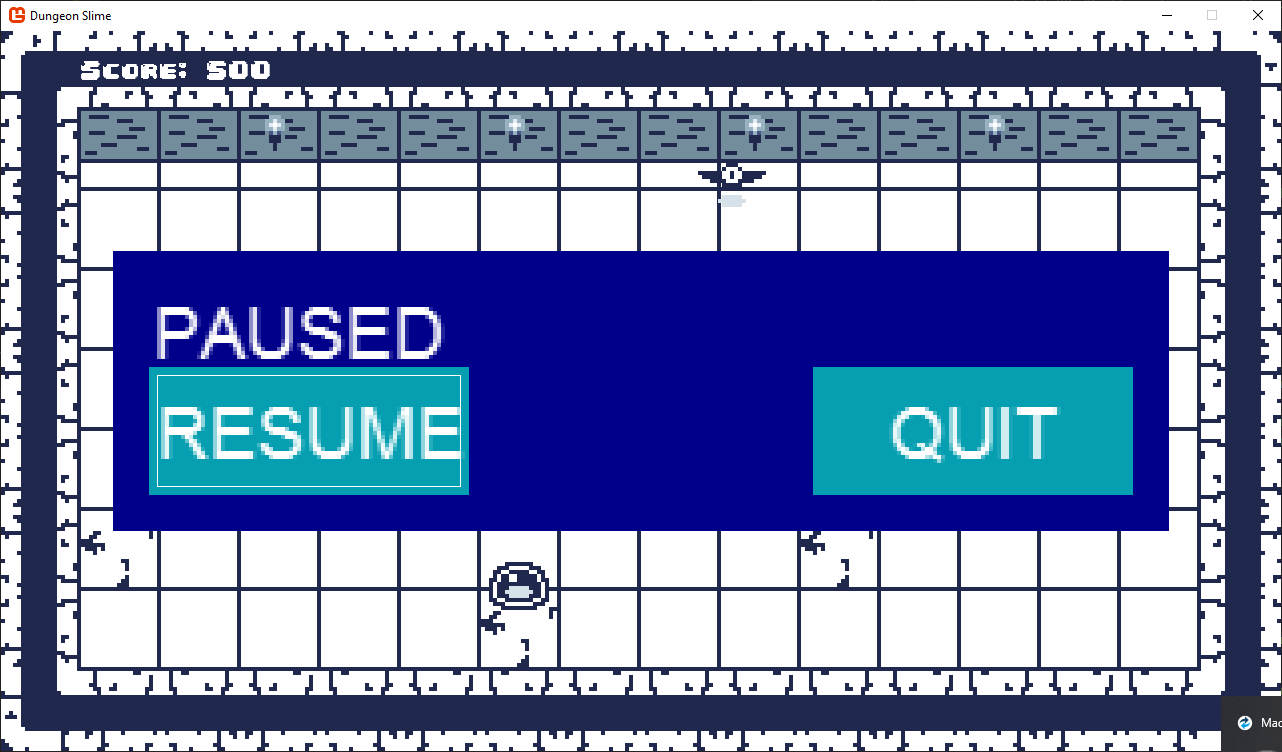
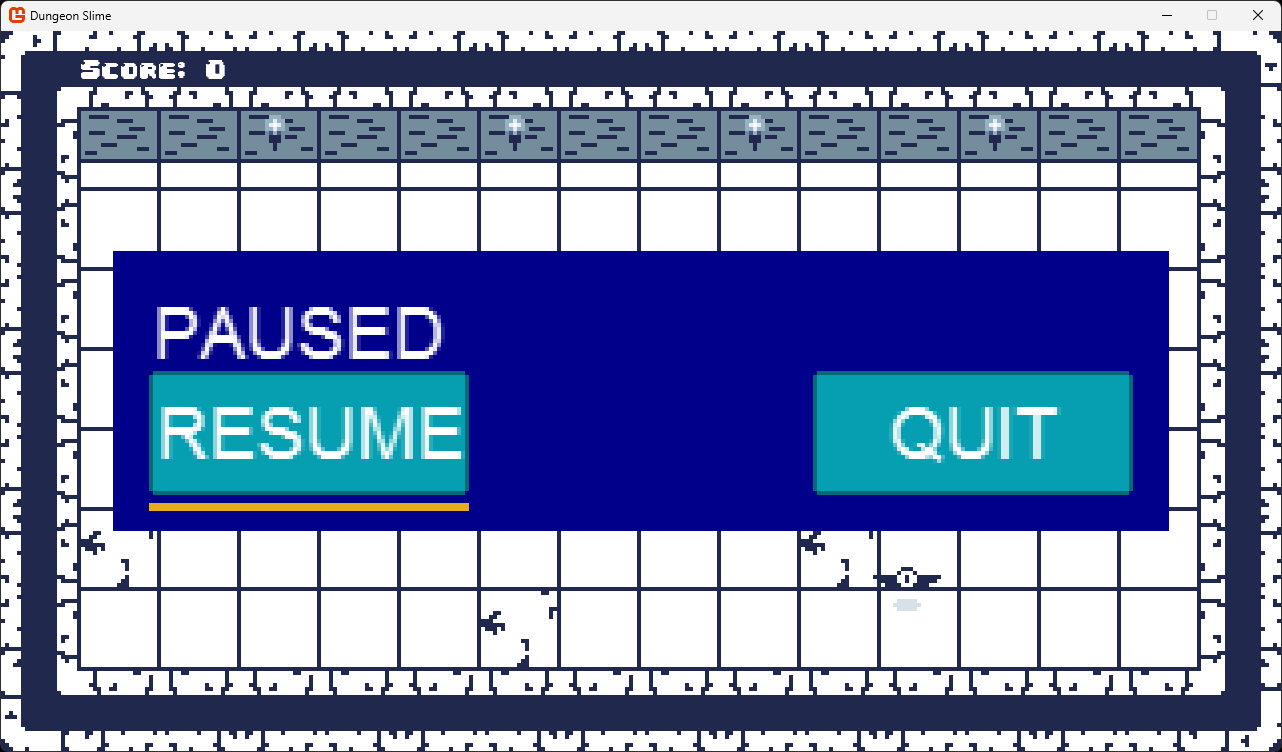
Gum styling update 2025 8 (#164)
* Updated styling docs to use ButtonVisual

Updated using statements to match new gum namespace

* Fixed usings

* Upped NuGet versions for MonoGame Docs

* Oops forgot this using statement.

* Upped version number

* Addressed feedback from AristurtleDev

diff --git a/articles/tutorials/building_2d_games/21_customizing_gum_ui/snippets/animatedbutton.cs b/articles/tutorials/building_2d_games/21_customizing_gum_ui/snippets/animatedbutton.cs
@@ -1,10 +1,11 @@
 using System;
 using Gum.DataTypes;
 using Gum.DataTypes.Variables;
+using Gum.Forms.Controls;
+using Gum.Forms.DefaultVisuals;
 using Gum.Graphics.Animation;
 using Gum.Managers;
 using Microsoft.Xna.Framework.Input;
-using MonoGameGum.Forms.Controls;
 using MonoGameGum.GueDeriving;
 using MonoGameLibrary.Graphics;
 
@@ -22,27 +23,26 @@ internal class AnimatedButton : Button
     /// <param name="atlas">The texture atlas containing button graphics and animations</param>
     public AnimatedButton(TextureAtlas atlas)
     {
-        // Create the top-level container that will hold all visual elements
+        // Each Forms conrol has a general Visual property that
+        // has properties shared by all control types. This Visual
+        // type matches the Forms type. It can be casted to access
+        // controls-specific properties.
+        ButtonVisual buttonVisual = (ButtonVisual)Visual;
         // Width is relative to children with extra padding, height is fixed
-        ContainerRuntime topLevelContainer = new ContainerRuntime();
-        topLevelContainer.Height = 14f;
-        topLevelContainer.HeightUnits = DimensionUnitType.Absolute;
-        topLevelContainer.Width = 21f;
-        topLevelContainer.WidthUnits = DimensionUnitType.RelativeToChildren;
+        buttonVisual.Height = 14f;
+        buttonVisual.HeightUnits = DimensionUnitType.Absolute;
+        buttonVisual.Width = 21f;
+        buttonVisual.WidthUnits = DimensionUnitType.RelativeToChildren;
 
-        // Create the nine-slice background that will display the button graphics
+        // Get a reference to the nine-slice background to display the button graphics
         // A nine-slice allows the button to stretch while preserving corner appearance
-        NineSliceRuntime nineSliceInstance = new NineSliceRuntime();
-        nineSliceInstance.Height = 0f;
-        nineSliceInstance.Texture = atlas.Texture;
-        nineSliceInstance.TextureAddress = TextureAddress.Custom;
-        nineSliceInstance.Dock(Gum.Wireframe.Dock.Fill);
-        topLevelContainer.Children.Add(nineSliceInstance);
+        NineSliceRuntime background = buttonVisual.Background;
+        background.Texture = atlas.Texture;
+        background.TextureAddress = TextureAddress.Custom;
+        background.Color = Microsoft.Xna.Framework.Color.White;
+        // texture coordinates for the background are set down below
 
-        // Create the text element that will display the button's label
-        TextRuntime textInstance = new TextRuntime();
-        // Name is required so it hooks in to the base Button.Text property
-        textInstance.Name = "TextInstance";
+        TextRuntime textInstance = buttonVisual.TextInstance;
         textInstance.Text = "START";
         textInstance.Blue = 130;
         textInstance.Green = 86;
@@ -53,7 +53,6 @@ internal class AnimatedButton : Button
         textInstance.Anchor(Gum.Wireframe.Anchor.Center);
         textInstance.Width = 0;
         textInstance.WidthUnits = DimensionUnitType.RelativeToChildren;
-        topLevelContainer.Children.Add(textInstance);
 
         // Get the texture region for the unfocused button state from the atlas
         TextureRegion unfocusedTextureRegion = atlas.GetRegion("unfocused-button");
@@ -94,58 +93,47 @@ internal class AnimatedButton : Button
         }
 
         // Assign both animation chains to the nine-slice background
-        nineSliceInstance.AnimationChains = new AnimationChainList
+        background.AnimationChains = new AnimationChainList
         {
             unfocusedAnimation,
             focusedAnimation
         };
 
-        // Create a state category for button states
-        StateSaveCategory category = new StateSaveCategory();
-        category.Name = Button.ButtonCategoryName;
-        topLevelContainer.AddCategory(category);
 
-        // Create the enabled (default/unfocused) state
-        StateSave enabledState = new StateSave();
-        enabledState.Name = FrameworkElement.EnabledStateName;
+        // Reset all state to default so we don't have unexpected variable assignments:
+        buttonVisual.ButtonCategory.ResetAllStates();
+
+        // Get the enabled (default/unfocused) state
+        StateSave enabledState = buttonVisual.States.Enabled;
         enabledState.Apply = () =>
         {
             // When enabled but not focused, use the unfocused animation
-            nineSliceInstance.CurrentChainName = unfocusedAnimation.Name;
+            background.CurrentChainName = unfocusedAnimation.Name;
         };
-        category.States.Add(enabledState);
 
         // Create the focused state
-        StateSave focusedState = new StateSave();
-        focusedState.Name = FrameworkElement.FocusedStateName;
+        StateSave focusedState = buttonVisual.States.Focused;
         focusedState.Apply = () =>
         {
             // When focused, use the focused animation and enable animation playback
-            nineSliceInstance.CurrentChainName = focusedAnimation.Name;
-            nineSliceInstance.Animate = true;
+            background.CurrentChainName = focusedAnimation.Name;
+            background.Animate = true;
         };
-        category.States.Add(focusedState);
 
         // Create the highlighted+focused state (for mouse hover while focused)
-        // by cloning the focused state since they appear the same
-        StateSave highlightedFocused = focusedState.Clone();
-        highlightedFocused.Name = FrameworkElement.HighlightedFocusedStateName;
-        category.States.Add(highlightedFocused);
+        StateSave highlightedFocused = buttonVisual.States.HighlightedFocused;
+        highlightedFocused.Apply = focusedState.Apply;
 
         // Create the highlighted state (for mouse hover)
         // by cloning the enabled state since they appear the same
-        StateSave highlighted = enabledState.Clone();
-        highlighted.Name = FrameworkElement.HighlightedStateName;
-        category.States.Add(highlighted);
+        StateSave highlighted = buttonVisual.States.Highlighted;
+        highlighted.Apply = enabledState.Apply;
 
         // Add event handlers for keyboard input.
         KeyDown += HandleKeyDown;
 
         // Add event handler for mouse hover focus.
-        topLevelContainer.RollOn += HandleRollOn;
-
-        // Assign the configured container as this button's visual
-        Visual = topLevelContainer;
+        buttonVisual.RollOn += HandleRollOn;
     }
 
     /// <summary>

diff --git a/articles/tutorials/building_2d_games/20_implementing_ui_with_gum/snippets/game1/initializegum.cs b/articles/tutorials/building_2d_games/20_implementing_ui_with_gum/snippets/game1/initializegum.cs
@@ -1,7 +1,9 @@
 private void InitializeGum()
 {
-    // Initialize the Gum service
-    GumService.Default.Initialize(this);
+    // Initialize the Gum service. The second parameter specifies
+    // the version of the default visuals to use. V2 is the latest
+    // version.
+    GumService.Default.Initialize(this, DefaultVisualsVersion.V2);
 
     // Tell the Gum service which content manager to use.  We will tell it to
     // use the global content manager from our Core.

diff --git a/articles/tutorials/building_2d_games/20_implementing_ui_with_gum/snippets/gamescene/usings.cs b/articles/tutorials/building_2d_games/20_implementing_ui_with_gum/snippets/gamescene/usings.cs
@@ -6,7 +6,7 @@ using Microsoft.Xna.Framework.Audio;
 using Microsoft.Xna.Framework.Graphics;
 using Microsoft.Xna.Framework.Input;
 using MonoGameGum;
-using MonoGameGum.Forms.Controls;
+using Gum.Forms.Controls;
 using MonoGameGum.GueDeriving;
 using MonoGameLibrary;
 using MonoGameLibrary.Graphics;

diff --git a/articles/tutorials/building_2d_games/21_customizing_gum_ui/snippets/gamescene/usings.cs b/articles/tutorials/building_2d_games/21_customizing_gum_ui/snippets/gamescene/usings.cs
@@ -8,7 +8,7 @@ using Microsoft.Xna.Framework.Audio;
 using Microsoft.Xna.Framework.Graphics;
 using Microsoft.Xna.Framework.Input;
 using MonoGameGum;
-using MonoGameGum.Forms.Controls;
+using Gum.Forms.Controls;
 using MonoGameGum.GueDeriving;
 using MonoGameLibrary;
 using MonoGameLibrary.Graphics;

diff --git a/articles/tutorials/building_2d_games/20_implementing_ui_with_gum/snippets/titlescene/usings.cs b/articles/tutorials/building_2d_games/20_implementing_ui_with_gum/snippets/titlescene/usings.cs
@@ -4,7 +4,7 @@ using Microsoft.Xna.Framework.Audio;
 using Microsoft.Xna.Framework.Graphics;
 using Microsoft.Xna.Framework.Input;
 using MonoGameGum;
-using MonoGameGum.Forms.Controls;
+using Gum.Forms.Controls;
 using MonoGameGum.GueDeriving;
 using MonoGameLibrary;
 using MonoGameLibrary.Scenes;

diff --git a/articles/tutorials/building_2d_games/21_customizing_gum_ui/snippets/optionsslider.cs b/articles/tutorials/building_2d_games/21_customizing_gum_ui/snippets/optionsslider.cs
@@ -3,7 +3,7 @@ using Gum.DataTypes;
 using Gum.DataTypes.Variables;
 using Gum.Managers;
 using Microsoft.Xna.Framework;
-using MonoGameGum.Forms.Controls;
+using Gum.Forms.Controls;
 using MonoGameGum.GueDeriving;
 using MonoGameLibrary.Graphics;
 

diff --git a/articles/tutorials/building_2d_games/20_implementing_ui_with_gum/snippets/game1/usings.cs b/articles/tutorials/building_2d_games/20_implementing_ui_with_gum/snippets/game1/usings.cs
@@ -1,5 +1,6 @@
 using DungeonSlime.Scenes;
-using Microsoft.Xna.Framework.Media;
+using Gum.Forms;
+using Gum.Forms.Controls;
 using MonoGameLibrary;
 using MonoGameGum;
-using MonoGameGum.Forms.Controls;
+using Microsoft.Xna.Framework.Media;

diff --git a/articles/tutorials/building_2d_games/21_customizing_gum_ui/index.md b/articles/tutorials/building_2d_games/21_customizing_gum_ui/index.md
@@ -182,7 +182,11 @@ Now that we have all our resources prepared, we can create custom versions of th
 
 ### The AnimatedButton Class
 
-Our first custom component will be an `AnimatedButton` that inherits from Gum's base `Button` class. This button will use the game's existing texture atlas for its visual appearance and provide animation when focused.
+Our first custom component is an `AnimatedButton` that inherits from Gum's base `Button` class. This button uses the game's existing texture atlas for its visual appearance and animates when focused.
+
+By default all Gum components provide a Visual property which can be cast to a type specific to the particular control. By convention the visual type is named the same as the component with the word `Visual` appened. For example, we will be casting the AnimatedButton's Visual property to `ButtonVisual` to access button-specific properties.
+
+This new `AnimatedButton` class casts the Visual property to `ButtonVisual` and modifies the button-specific properties such as background and text.
 
 First, in the *DungeonSlime* project (your main game project), create a new folder named `UI` to store our custom UI components.  Next, in that `UI` folder, create a new file called `AnimatedButton.cs` and add the following code to it:
 
@@ -190,21 +194,29 @@ First, in the *DungeonSlime* project (your main game project), create a new fold
 
 Next, we will examine the key aspects of this new `AnimatedButton` implementation:
 
-#### Top-level Container
+#### ButtonVisual
 
-Every customized control needs a top-level container to hold all visual elements. For our button, we create a `ContainerRuntime` that manages the button's size and contains all other visual elements:
+As mentioned earlier, we first access the `Visual` object and cast it to a `ButtonVisual`. Doing so gives us access to button-specific properties including individual elements (such as the text and background visuals) as well as the states that are applied when the button is hovered or pressed.
 
-[!code-csharp[](./snippets/animatedbutton.cs?start=26&end=32)]
+We can modify the Visual to give it the appropriate size.
 
-The `WidthUnits` property set to `RelativeToChildren` means the container will automatically size itself based on its child elements, with 21 pixels of additional space.  This allows the button to adapt its size depending on the text content.
+[!code-csharp[](./snippets/animatedbutton.cs?start=30&end=35)]
+
+The `WidthUnits` property set to `RelativeToChildren` means the container  automatically sizes itself based on its child elements, with 21 pixels of additional space.  This allows the button to adapt its size depending on the text content.
 
 #### Nine-slice Background
 
-We use a `NineSliceRuntime` for the button's background.  A nine-slice is a special graphic that can be stretch while preserving its corners and edges:
+`ButtonVisual` provides a `Background` which we can modify. This is of type `NineSliceRuntime` which is a special graphic that can be stretch while preserving its corners and edges:
 
-[!code-csharp[](./snippets/animatedbutton.cs?start=34&end=41)]
+[!code-csharp[](./snippets/animatedbutton.cs?start=39&end=42)]
 
-The `TextureAddress` property is set to `Custom` so we can specify exactly which portion of the atlas texture to use, while `Dock(Dock.Fill)` ensure the background fills the entire button area.
+The `TextureAddress` property is set to `Custom` so we can specify exactly which portion of the atlas texture to use, while `Dock(Dock.Fill)` ensure the background fills the entire button area. The portion of the atlas is assigned using AnimationChains, which are discussed later in this tutorial.
+
+#### Text
+
+`ButtonVisual` also provides a customizable `Text` property. In this case we assign the font, color, and size.
+
+[!code-csharp[](./snippets/animatedbutton.cs?start=45&end=55)]
 
 #### Animated Chains
 
@@ -215,27 +227,25 @@ The most distinctive feature of our animated button is its ability to change app
 
 Each animation frame specifies the coordinates within our texture atlas to display:
 
-[!code-csharp[](./snippets/animatedbutton.cs?start=62&end=102)]
+[!code-csharp[](./snippets/animatedbutton.cs?start=58&end=93)]
 
 #### States and Categories
 
-In Gum, each control type has a specific category name that identifies its state collection. For buttons we use `Button.ButtonCategoryName`:
+In Gum, each control type has a specific category name that identifies its state collection. `ButtonVisual` provides access to ready-made states and catgories which we can modify. Before we speicfy how a state should modify the button's appearance, we clear out all existing functionality so that we can fully control the states:
 
-[!code-csharp[](./snippets/animatedbutton.cs?start=104&end=107)]
+[!code-csharp[](./snippets/animatedbutton.cs?start=104&end=104)]
 
-Within this category, we define how the button appears in different states by creating `StateSave` objects with specific state names:
+Each of the button's states can be accessed through `ButtonVisual`. Since the states were cleared previously, the code assigns only the necessary property assignments in the `Apply` delegate. In our case, we switch between animation chains to create the desired visual effect.
 
-[!code-csharp[](./snippets/animatedbutton.cs?start=109&end=140)]
-
-Each state's `Apply` action defines what visual changes occur when the state becomes active.  In our case, we switch between animation chains to create the desired visual effect.
+[!code-csharp[](./snippets/animatedbutton.cs?start=107&end=130)]
 
 #### Custom Input Handling
 
 We add custom keyboard navigation to our button by handling the `KeyDown` event:
 
-[!code-csharp[](./snippets/animatedbutton.cs?start=142&end=143)]
+[!code-csharp[](./snippets/animatedbutton.cs?start=133&end=133)]
 
-[!code-csharp[](./snippets/animatedbutton.cs?start=152&end=167)]
+[!code-csharp[](./snippets/animatedbutton.cs?start=142&end=154)]
 
 This allows players to navigate between buttons using the left and right arrow keys, providing additional control options beyond the default tab navigation.
 
@@ -243,15 +253,17 @@ This allows players to navigate between buttons using the left and right arrow k
 
 We also add a `RollOn` event handler to ensure the button gets focus when the mouse hovers over it:
 
-[!code-csharp[](./snippets/animatedbutton.cs?start=145&end=146)]
+[!code-csharp[](./snippets/animatedbutton.cs?start=136&end=136)]
 
-[!code-csharp[](./snippets/animatedbutton.cs?start=169&end=175)]
+[!code-csharp[](./snippets/animatedbutton.cs?start=159&end=162)]
 
 This creates a more responsive interface by immediately focusing elements that the player interacts with using the mouse.
 
 ### The OptionsSlider Class
 
 Now we will create a custom `OptionsSlider` class to style the volume sliders.  This class inherits from Gum's base `Slider` class and provides a styled appearance consistent with the game's visual theme.
+
+Unlike `AnimatedButton`, the `OptionsSlider` creates a Visual completely from scratch. This class provides an example for how to completely customize a Forms control by recreating its Visual object entirely. We do this because the desired appearance and behavior of our `OptionsSlider` is differs enough from the existing Slider that it is easier to replace its `Visual` entirely.
 
 In the `UI` folder of the *DungeonSlime* project (your main game project), create a new file called `OptionsSlider.cs` and add the following code to it:
 

diff --git a/articles/tutorials/building_2d_games/20_implementing_ui_with_gum/index.md b/articles/tutorials/building_2d_games/20_implementing_ui_with_gum/index.md
@@ -37,7 +37,7 @@ Gum addresses these challenges with ready-made solutions, allowing us to focus o
 > [!IMPORTANT]
 > This tutorial uses the Gum NuGet package to help with layout and responding to user interactions. This tutorial does not require the use of the Gum editor, we will be doing everything in code.
 >
-> Keep in mind, that while it is possible to build a full UI system without any external dependencies, creating a layout engine is complicated and beyond the scope of this tutorial. Instead, we will be taking advantage of the Gum NuGet package.
+> Keep in mind that while it is possible to build a full UI system without any external dependencies, creating a layout engine is complicated and beyond the scope of this tutorial. Instead, we will be taking advantage of the Gum NuGet package.
 >
 > Gum is a powerful system enabling the creation of virtually any game UI, and we will be covering some of the basics of its use in this tutorial. The full Gum documentation can be found here: [https://docs.flatredball.com/gum/code/monogame](https://docs.flatredball.com/gum/code/monogame)
 
@@ -321,7 +321,7 @@ To add the Gum NuGet package in Visual Studio Code:
 2. Choose `Add NuGet Package` from the context menu.
 3. Enter `Gum.MonoGame` in the `Add NuGet Package` search prompt and press Enter.
 4. When the search finishes, select the `Gum.MonoGame` package in the results
-5. When prompted for a version choose version `2025.5.1.1`.
+5. When prompted for a version choose version `2025.8.3.3`.
 
 #### [Visual Studio 2022](#tab/vs2022)
 
@@ -332,7 +332,7 @@ To Add the Gum NuGet package in Visual Studio 2022:
 3. In the NuGet Package Manager window, select the `Browse` tab if it is not already selected.
 4. In the search box, enter `Gum.MonoGame`.
 5. Select the "Gum.MonoGame" package from the search results.
-6. On the right, in the version dropdown, select version `2025.5.1.1` and click the "Install" button.
+6. On the right, in the version dropdown, select version `2025.8.3.3` and click the "Install" button.
 
 #### [dotnet CLI](#tab/dotnetcli)
 
@@ -342,7 +342,7 @@ To add the Gum NuGet package using the dotnet CLI:
 2. Enter the following command:
 
     ```sh
-    dotnet add DungeonSlime.csproj package Gum.MonoGame --version 2025.5.1.1
+    dotnet add DungeonSlime.csproj package Gum.MonoGame --version 2025.8.3.3
     ```
 
 ---
@@ -351,11 +351,11 @@ To add the Gum NuGet package using the dotnet CLI:
 > You can verify the package was successfully added by examining your `DungeonSlime.csproj` file, which should now contain a reference like:
 >
 > ```xml
-> <PackageReference Include="Gum.MonoGame" Version="2025.5.1.1" />
+> <PackageReference Include="Gum.MonoGame" Version="2025.8.3.3" />
 > ```
 
 > [!IMPORTANT]
-> This tutorial uses version `2025.5.1.1` of Gum, which is the latest version of Gum as of this writing.  That exact version is specified to use in the section above when installing the NuGet package to ensure compatibility throughout this tutorial.  If there are newer versions of Gum available, please consult the [Gum documentation](https://docs.flatredball.com/gum/gum-tool/breaking-changes) before updating in case there are any breaking changes from the code that is presented in this tutorial.
+> This tutorial uses version `2025.8.3.3` of Gum, which is the latest version of Gum as of this writing.  That exact version is specified to use in the section above when installing the NuGet package to ensure compatibility throughout this tutorial.  If there are newer versions of Gum available, please consult the [Gum documentation](https://docs.flatredball.com/gum/gum-tool/upgrading) before updating in case there are any breaking changes from the code that is presented in this tutorial.
 
 ### Adding UI Sound Effect
 
@@ -385,7 +385,7 @@ With the Gum NuGet package added to our project, we need to initialize Gum in ou
 
 First, open the `Game1.cs` file and add the following new using statements to the top:
 
-[!code-csharp[](./snippets/game1/usings.cs?highlight=4-5)]
+[!code-csharp[](./snippets/game1/usings.cs?highlight=2-5)]
 
 Next, add the following method to the `Game1` class to encapsulate the initializations of the Gum UI service:
 
@@ -397,10 +397,10 @@ Finally, update the [**Initialize**](xref:Microsoft.Xna.Framework.Game.Initializ
 
 The following is a breakdown of this initialization process:
 
-1. **Basic Initialization**: `GumService.Default.Initialize(this)` sets up the Gum system with our game instance.  This is required for any gum project.
+1. **Basic Initialization**: `GumService.Default.Initialize(this, DefaultVisualsVersion.V2)` sets up the Gum system with our game instance.  This is required for any gum project. The second parameter specifies the default visual styling. V2 is the latest version which makes it easy to style the default controls.
 
     > [!NOTE]
-    > We only need to pass our [**Game**](xref:Microsoft.Xna.Framework.Game) instance since we are using Gum as a code-first approach.  Gum also offers a visual editor that creates Gum project files. When using the editor, you will need to also pass the Gum Project file here.
+    > We only need to pass our [**Game**](xref:Microsoft.Xna.Framework.Game) instance and the visuals version since we are using Gum as a code-first approach.  Gum also offers a visual editor that creates Gum project files. When using the editor, you will need to also pass the Gum Project file to `Initialize`. For more information on how to use the Gum visual editor, see the [Gum Project Forms Tutorial](https://docs.flatredball.com/gum/code/monogame/tutorials/gum-project-forms-tutorial).
 
 2. **Content Loading**: Gum needs to be made aware of which content manager to use to load assets through the content pipeline.  By setting `GumService.Default.ContentLoader.XnaContentManager = Core.Content`, we tell Gum to use our game's content manager when loading assets.  By using the game's existing content manager, Gum also gets the benefit of the caching that the content manager performs when loading assets.
 3. **Input Configuration**:
